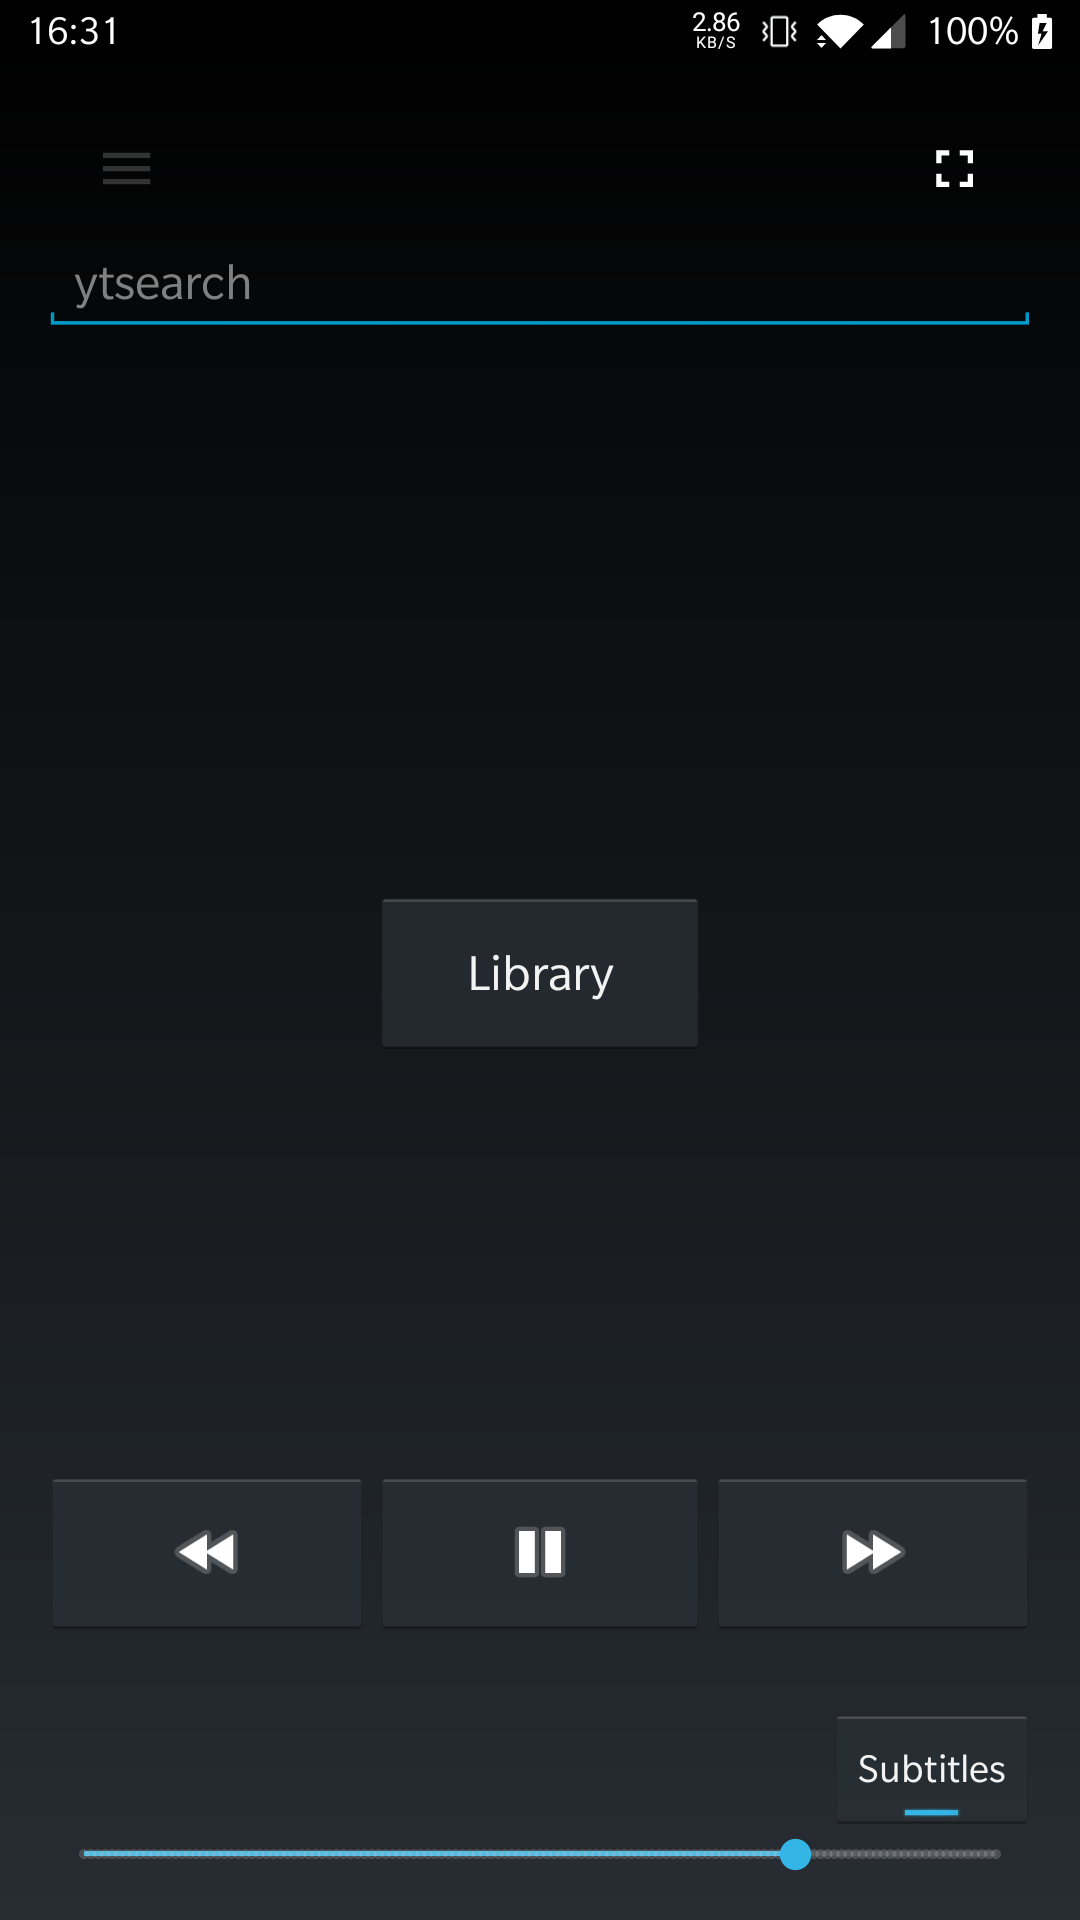
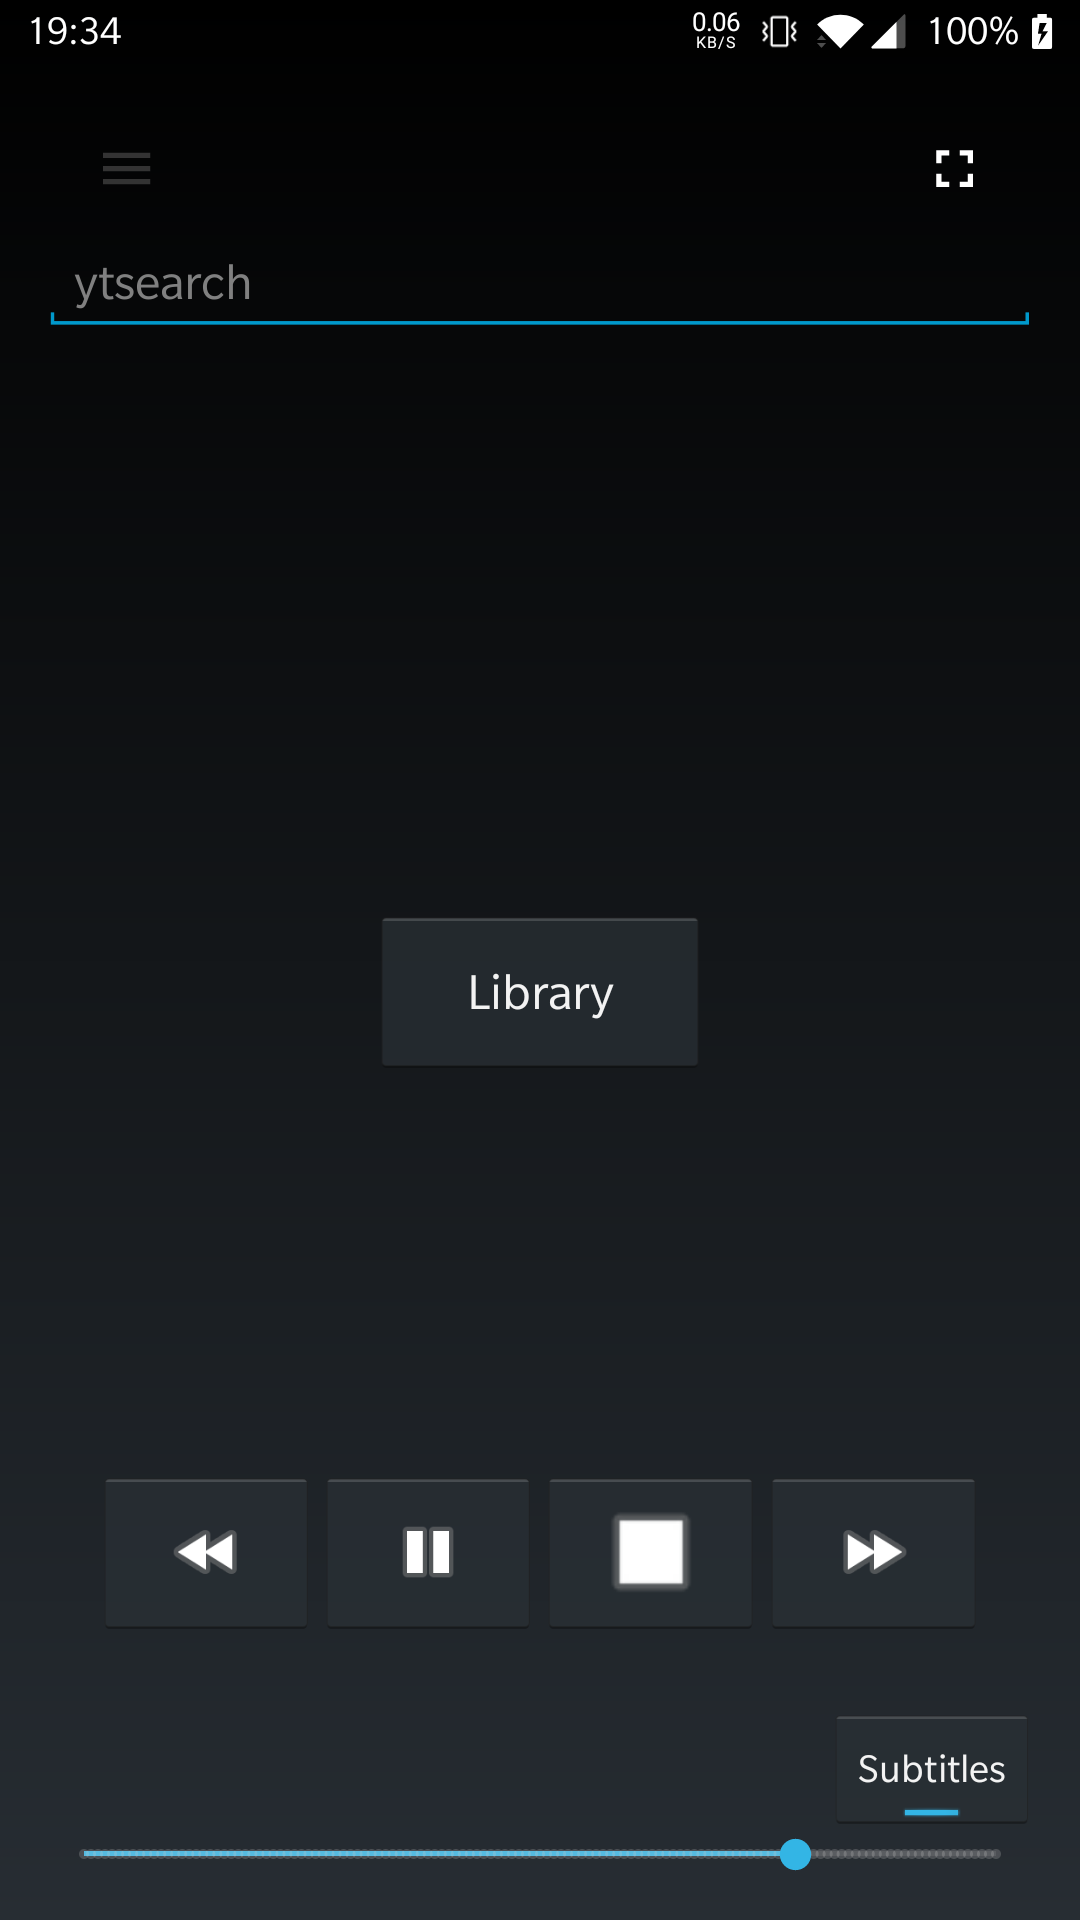
add screenshot with both ytsearch and stop button

diff --git a/README.md b/README.md
@@ -3,7 +3,7 @@ An Android application to control the [mpv media player](https://mpv.io/)
 running on a separate computer.
 
 <p align="center">
-<img src="https://raw.githubusercontent.com/mcastorina/mpv-remote-app/master/screenshots/app-main.png" width="336">
+<img src="https://raw.githubusercontent.com/marcopus/mpv-remote-app/master/screenshots/app-main.png" width="336">
 <img src="https://raw.githubusercontent.com/mcastorina/mpv-remote-app/master/screenshots/app-settings.png" width="336">
 </p>
 
